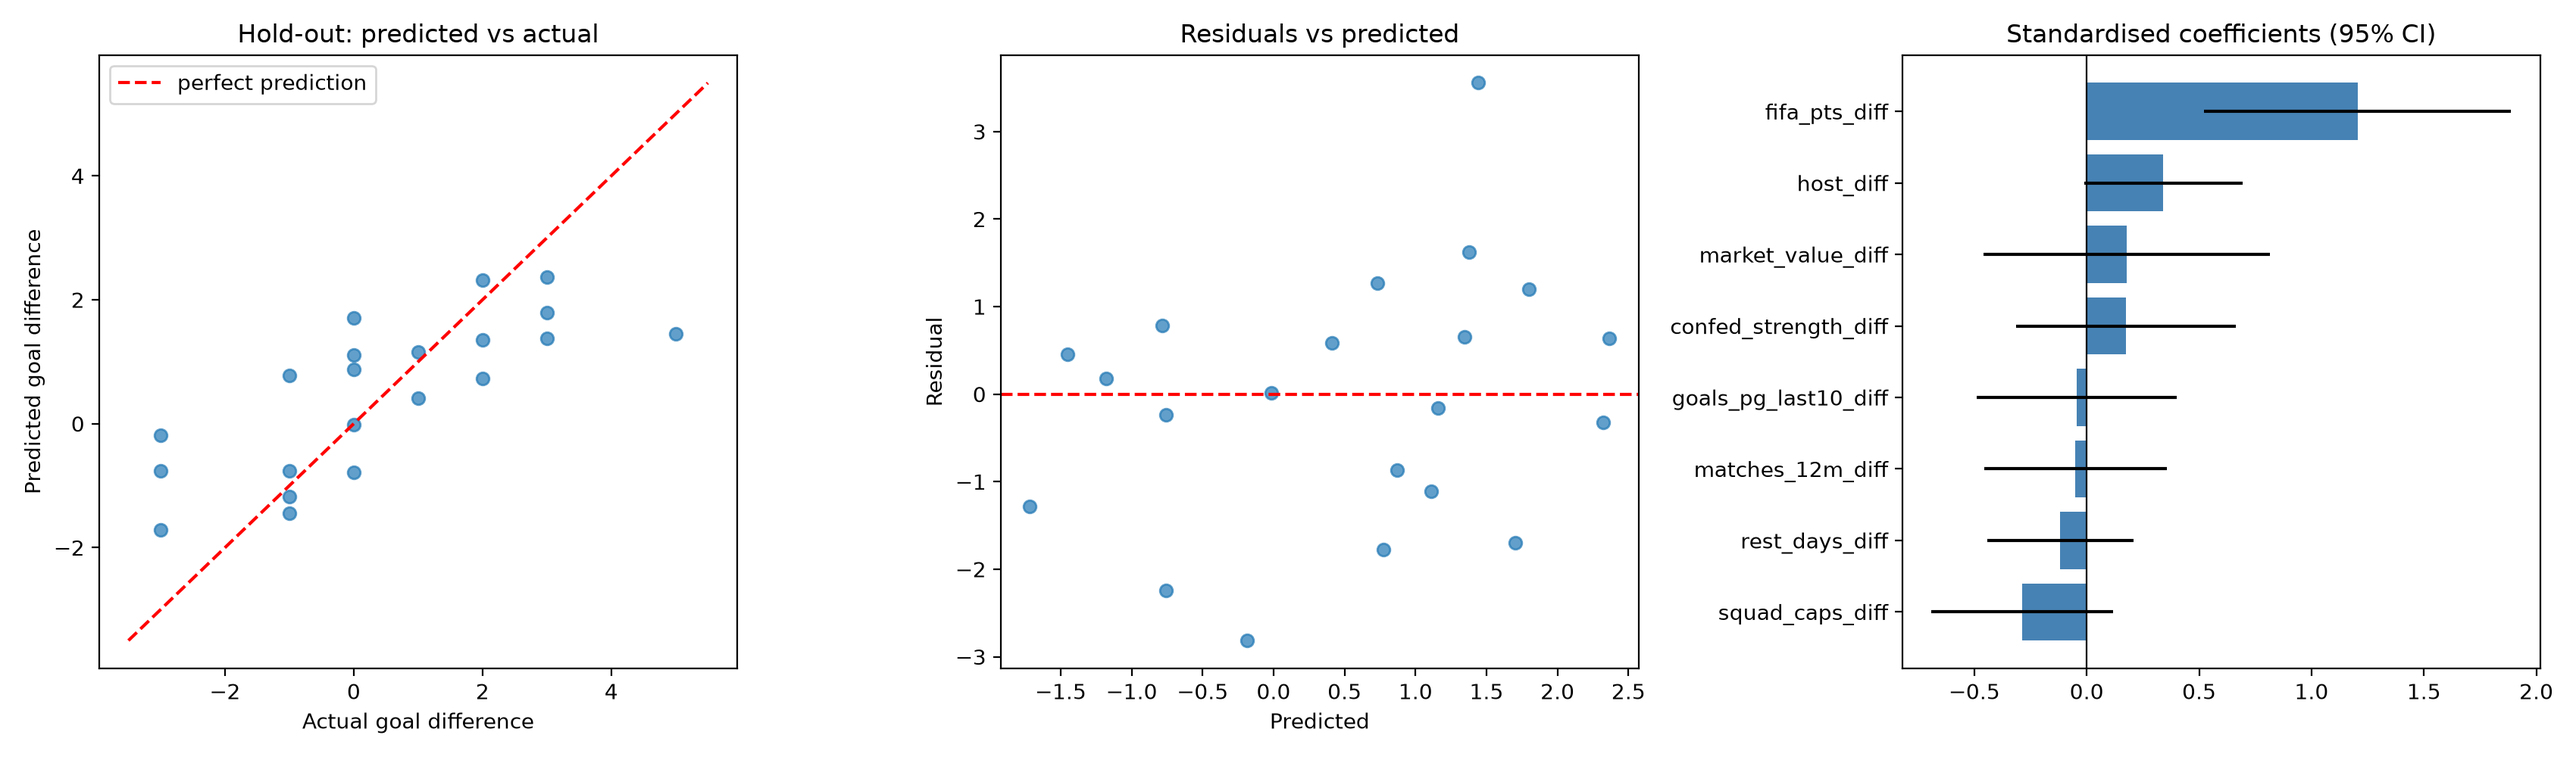
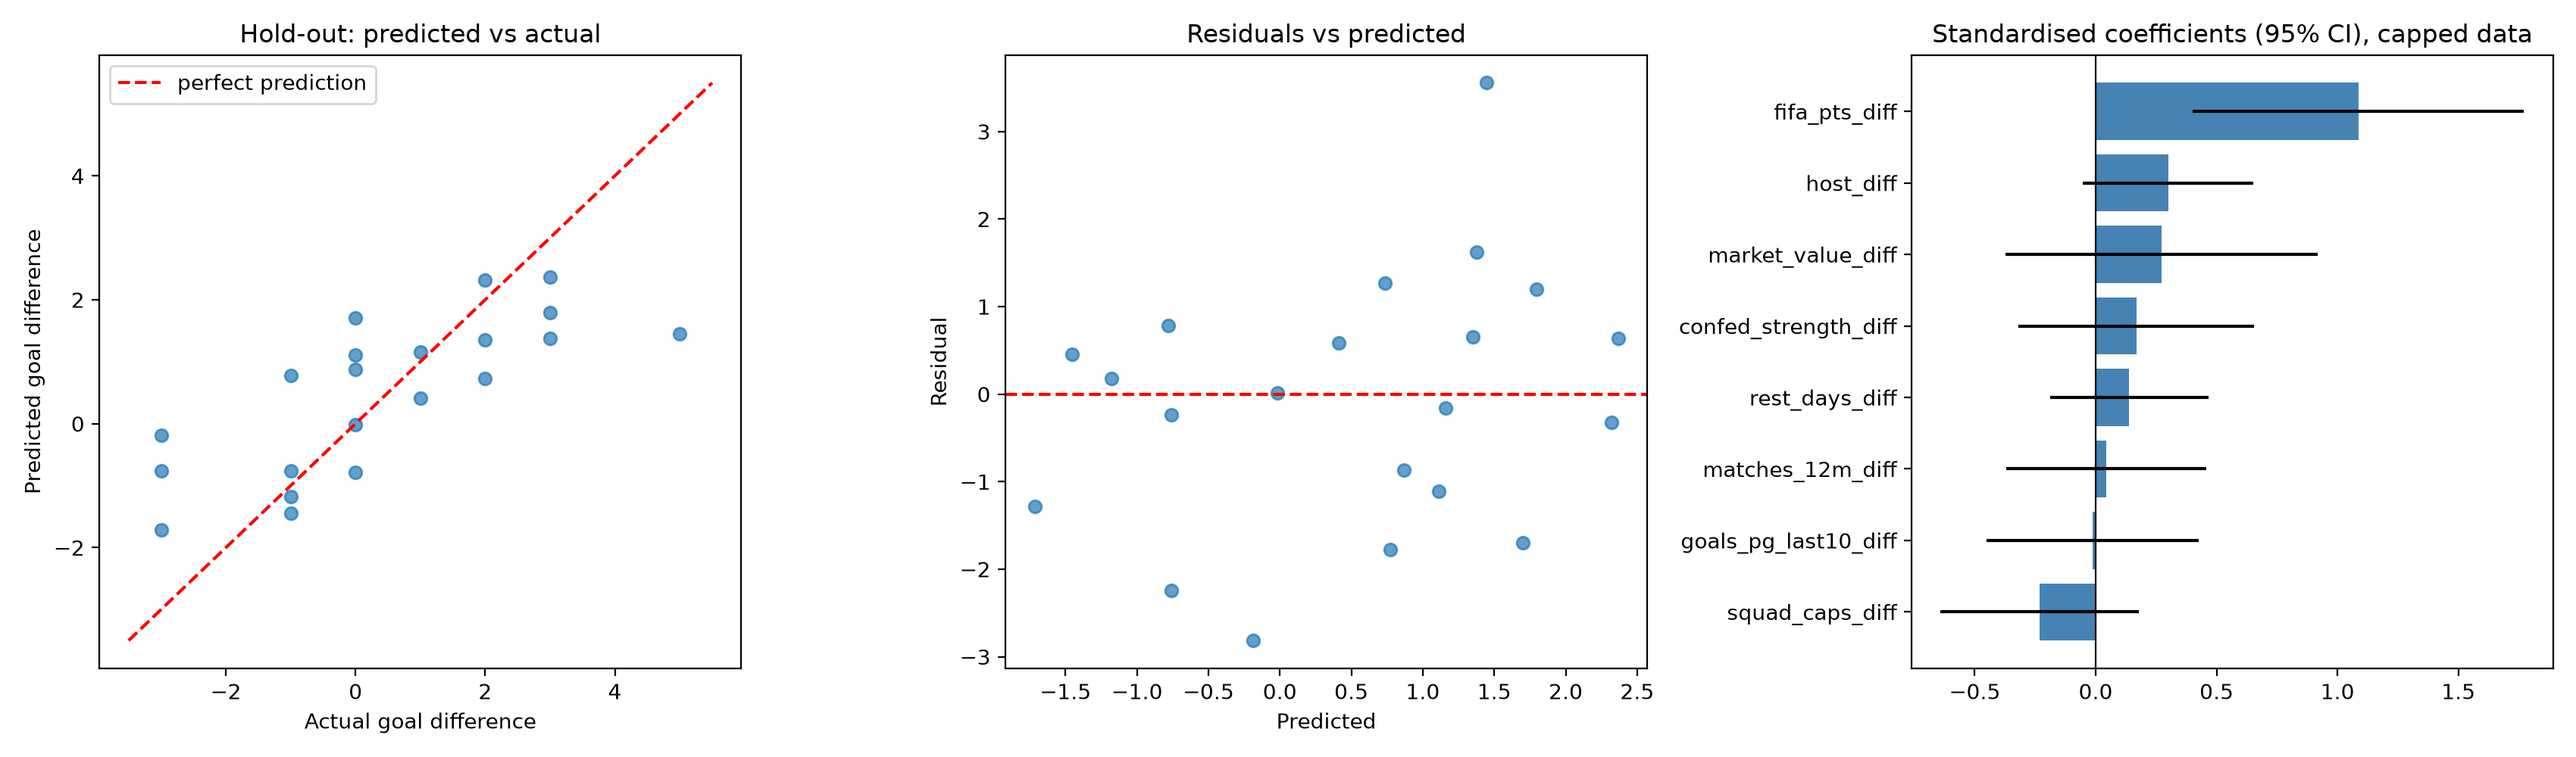
Update model with outlier capping and add report figures

diff --git a/src/07_model.py b/src/07_model.py
@@ -1,6 +1,10 @@
 """Linear Regression 2.1: baseline, optimisation experiments, competing algorithms, final evaluation.
 Run from project root:  python src/07_model.py
-Outputs: reports/model_*.csv, figures/model_*.png
+Outputs: reports/model_*.csv, reports/ols_summary_*.txt, figures/model_*.png
+
+Experiment groups
+  E*  : raw variables
+  C*  : same ideas after capping rest_days_diff at +-10 days (one match has -70, a high-leverage outlier)
 """
 import os, warnings
 import matplotlib
@@ -8,17 +12,16 @@ matplotlib.use("Agg")
 import matplotlib.pyplot as plt
 import numpy as np
 import pandas as pd
-import seaborn as sns
 import statsmodels.api as sm
 from sklearn.compose import ColumnTransformer
 from sklearn.dummy import DummyRegressor
 from sklearn.ensemble import GradientBoostingRegressor, RandomForestRegressor
 from sklearn.feature_selection import SelectKBest, f_regression
-from sklearn.linear_model import ElasticNetCV, LinearRegression, RidgeCV
+from sklearn.linear_model import ElasticNetCV, HuberRegressor, LinearRegression, RidgeCV
 from sklearn.metrics import mean_absolute_error, mean_squared_error, r2_score
 from sklearn.model_selection import RepeatedKFold, cross_validate, train_test_split
 from sklearn.neighbors import KNeighborsRegressor
-from sklearn.pipeline import Pipeline, make_pipeline
+from sklearn.pipeline import make_pipeline
 from sklearn.preprocessing import FunctionTransformer, PowerTransformer, StandardScaler
 from sklearn.svm import SVR
 from statsmodels.stats.outliers_influence import variance_inflation_factor
@@ -26,112 +29,112 @@ from statsmodels.tools import add_constant
 
 warnings.filterwarnings("ignore")
 os.makedirs("figures", exist_ok=True); os.makedirs("reports", exist_ok=True)
-SEED = 42
+SEED, CAP = 42, 10
 df = pd.read_csv("data/processed/model_2_1_dataset.csv")
 X_COLS = ["fifa_pts_diff", "market_value_diff", "goals_pg_last10_diff", "rest_days_diff",
           "confed_strength_diff", "matches_12m_diff", "squad_caps_diff", "host_diff"]
-X, y = df[X_COLS], df["goal_diff"]
-cv = RepeatedKFold(n_splits=5, n_repeats=10, random_state=SEED)   # 50 train/validation splits
+y = df["goal_diff"]
+DATA = {"raw": df[X_COLS].copy(), "cap": df[X_COLS].copy()}
+DATA["cap"]["rest_days_diff"] = DATA["cap"]["rest_days_diff"].clip(-CAP, CAP)   # outlier treatment
+cv = RepeatedKFold(n_splits=5, n_repeats=10, random_state=SEED)                # 50 train/validation splits
 
-def evaluate(name, model, cols=None, group="experiment"):
-    Xs = X if cols is None else X[cols]
-    s = cross_validate(model, Xs, y, cv=cv, n_jobs=-1,
-                       scoring={"rmse": "neg_root_mean_squared_error", "mae": "neg_mean_absolute_error", "r2": "r2"})
-    return {"group": group, "model": name, "CV_RMSE": -s["test_rmse"].mean(), "RMSE_sd": s["test_rmse"].std(),
-            "CV_MAE": -s["test_mae"].mean(), "CV_R2": s["test_r2"].mean()}
-
-# ---------- helper: iterative VIF removal (uses explanatory variables only, no target) ----------
-def vif_reduce(cols, thresh=5.0):
-    cols = list(cols)
+def vif_reduce(X, thresh=5.0):
+    cols = list(X.columns)
     while len(cols) > 2:
-        Xc = add_constant(X[cols]); v = [variance_inflation_factor(Xc.values, i + 1) for i in range(len(cols))]
+        v = [variance_inflation_factor(add_constant(X[cols]).values, i + 1) for i in range(len(cols))]
         if max(v) <= thresh: break
         cols.pop(int(np.argmax(v)))
     return cols
-low_vif_cols = vif_reduce(X_COLS)
-print("Columns kept after VIF filtering (VIF<=5):", low_vif_cols)
+low_vif = {k: vif_reduce(DATA[k]) for k in DATA}
+print("Kept after VIF<=5 filter:", low_vif["raw"])
 
 def signed_log(a): return np.sign(a) * np.log1p(np.abs(a))
-skewed = [c for c in ["market_value_diff", "fifa_pts_diff"] if c in X_COLS]
-slog = ColumnTransformer([("slog", FunctionTransformer(signed_log), skewed)], remainder="passthrough")
+def slog_pipe(): return make_pipeline(ColumnTransformer([("s", FunctionTransformer(signed_log), ["market_value_diff", "fifa_pts_diff"])],
+                                                        remainder="passthrough"), StandardScaler(), LinearRegression())
+def topk(k, reg=None): return make_pipeline(StandardScaler(), SelectKBest(f_regression, k=k), reg or LinearRegression())
+def ridge(): return make_pipeline(StandardScaler(), RidgeCV(alphas=np.logspace(-3, 3, 30)))
+def enet(): return make_pipeline(StandardScaler(), ElasticNetCV(l1_ratio=[.2, .5, .8, 1], cv=5, random_state=SEED))
+def yj(): return make_pipeline(PowerTransformer(), LinearRegression())
 
-# ---------- 1. Baseline + linear regression optimisation experiments ----------
-res = [
-    evaluate("E0 Baseline (predict training mean)", DummyRegressor(strategy="mean")),
-    evaluate("E1 Linear regression, all 8 variables", LinearRegression()),
-    evaluate("E2 + Yeo-Johnson transformation", make_pipeline(PowerTransformer(), LinearRegression())),
-    evaluate("E3 + signed-log of skewed variables, then scaling", make_pipeline(slog, StandardScaler(), LinearRegression())),
-    evaluate("E4 Remove collinear variables (VIF<=5)", LinearRegression(), cols=low_vif_cols),
-    evaluate("E5 VIF filter + Yeo-Johnson", make_pipeline(PowerTransformer(), LinearRegression()), cols=low_vif_cols),
+# (name, model factory, data version, columns or None, group, is_linear)
+EXPS = [
+ ("E0 Baseline (predict training mean)", DummyRegressor, "raw", None, "baseline", False),
+ ("E1 Linear regression, all 8 variables", LinearRegression, "raw", None, "raw", True),
+ ("E2 + Yeo-Johnson transformation", yj, "raw", None, "raw", True),
+ ("E3 + signed-log of skewed variables, scaling", slog_pipe, "raw", None, "raw", True),
+ ("E4 Remove collinear variables (VIF<=5)", LinearRegression, "raw", low_vif["raw"], "raw", True),
+ ("E5 VIF filter + Yeo-Johnson", yj, "raw", low_vif["raw"], "raw", True),
+ ("E6 Top-3 by F-test (inside CV)", lambda: topk(3), "raw", None, "raw", True),
+ ("E6 Top-4 by F-test (inside CV)", lambda: topk(4), "raw", None, "raw", True),
+ ("E6 Top-5 by F-test (inside CV)", lambda: topk(5), "raw", None, "raw", True),
+ ("E6 Top-6 by F-test (inside CV)", lambda: topk(6), "raw", None, "raw", True),
+ ("E7 Ridge (alpha by CV)", ridge, "raw", None, "raw", True),
+ ("E8 Elastic Net (alpha, l1 by CV)", enet, "raw", None, "raw", True),
+ ("C1 All 8, rest days capped at +-10", LinearRegression, "cap", None, "capped", True),
+ ("C2 Capped + Yeo-Johnson", yj, "cap", None, "capped", True),
+ ("C3 Capped + signed-log + scaling", slog_pipe, "cap", None, "capped", True),
+ ("C4 Capped + VIF filter (VIF<=5)", LinearRegression, "cap", low_vif["cap"], "capped", True),
+ ("C5 Capped + Huber robust regression", lambda: make_pipeline(StandardScaler(), HuberRegressor()), "cap", None, "capped", True),
+ ("C6 Capped + Top-3 by F-test", lambda: topk(3), "cap", None, "capped", True),
+ ("C6 Capped + Top-4 by F-test", lambda: topk(4), "cap", None, "capped", True),
+ ("C7 Capped + Ridge", ridge, "cap", None, "capped", True),
+ ("Random Forest (capped data)", lambda: RandomForestRegressor(n_estimators=300, min_samples_leaf=3, random_state=SEED), "cap", None, "competing", False),
+ ("Gradient Boosting (capped data)", lambda: GradientBoostingRegressor(n_estimators=150, max_depth=2, learning_rate=.05, subsample=.8, random_state=SEED), "cap", None, "competing", False),
+ ("SVR, RBF kernel (capped data)", lambda: make_pipeline(StandardScaler(), SVR(C=2.0, epsilon=.3)), "cap", None, "competing", False),
+ ("k-Nearest Neighbours, k=10 (capped data)", lambda: make_pipeline(StandardScaler(), KNeighborsRegressor(10)), "cap", None, "competing", False),
 ]
-for k in (3, 4, 5, 6):
-    res.append(evaluate(f"E6 Top-{k} variables by F-test (inside CV)",
-                        make_pipeline(StandardScaler(), SelectKBest(f_regression, k=k), LinearRegression())))
-res.append(evaluate("E7 Ridge regression (alpha by CV)", make_pipeline(StandardScaler(), RidgeCV(alphas=np.logspace(-3, 3, 30)))))
-res.append(evaluate("E8 Elastic Net (alpha, l1 by CV)", make_pipeline(StandardScaler(), ElasticNetCV(l1_ratio=[.2, .5, .8, 1], cv=5, random_state=SEED))))
-exp = pd.DataFrame(res); print("\nOPTIMISATION EXPERIMENTS (5-fold x10 CV)\n", exp.round(3).to_string(index=False))
 
-# ---------- 2. Competing algorithms (HD criterion) ----------
-comp = [
-    evaluate("Linear regression (baseline linear model)", LinearRegression(), group="competing"),
-    evaluate("Random Forest", RandomForestRegressor(n_estimators=300, min_samples_leaf=3, random_state=SEED), group="competing"),
-    evaluate("Gradient Boosting", GradientBoostingRegressor(n_estimators=150, max_depth=2, learning_rate=.05, subsample=.8, random_state=SEED), group="competing"),
-    evaluate("SVR (RBF kernel)", make_pipeline(StandardScaler(), SVR(C=2.0, epsilon=.3)), group="competing"),
-    evaluate("k-Nearest Neighbours (k=10)", make_pipeline(StandardScaler(), KNeighborsRegressor(10)), group="competing"),
-]
-compdf = pd.DataFrame(comp); print("\nCOMPETING ALGORITHMS\n", compdf.round(3).to_string(index=False))
-pd.concat([exp, compdf]).round(4).to_csv("reports/model_cv_results.csv", index=False)
+def get_X(ver, cols): return DATA[ver] if cols is None else DATA[ver][cols]
+rows = []
+for name, mk, ver, cols, grp, lin in EXPS:
+    s = cross_validate(mk(), get_X(ver, cols), y, cv=cv, n_jobs=-1,
+                       scoring={"rmse": "neg_root_mean_squared_error", "mae": "neg_mean_absolute_error", "r2": "r2"})
+    rows.append({"group": grp, "model": name, "CV_RMSE": -s["test_rmse"].mean(), "RMSE_sd": s["test_rmse"].std(),
+                 "CV_MAE": -s["test_mae"].mean(), "CV_R2": s["test_r2"].mean()})
+res = pd.DataFrame(rows); res.round(4).to_csv("reports/model_cv_results.csv", index=False)
+base = res.loc[0, "CV_RMSE"]; full = res.loc[1, "CV_RMSE"]
+res["vs_baseline_%"] = (1 - res.CV_RMSE / base) * 100
+print("\nALL EXPERIMENTS (5-fold x 10 CV)\n", res.round(3).to_string(index=False))
 
-# ---------- 3. Pick best linear model and evaluate on an 80/20 hold-out vs actual results ----------
-lin = exp[exp.model.str.startswith(("E1", "E2", "E3", "E4", "E5", "E6", "E7", "E8"))].sort_values("CV_RMSE")
-best_name = lin.iloc[0].model; print("\nBest linear experiment:", best_name)
-best_models = {
-    "E1": (LinearRegression(), None), "E2": (make_pipeline(PowerTransformer(), LinearRegression()), None),
-    "E3": (make_pipeline(slog, StandardScaler(), LinearRegression()), None),
-    "E4": (LinearRegression(), low_vif_cols), "E5": (make_pipeline(PowerTransformer(), LinearRegression()), low_vif_cols),
-    "E7": (make_pipeline(StandardScaler(), RidgeCV(alphas=np.logspace(-3, 3, 30))), None),
-    "E8": (make_pipeline(StandardScaler(), ElasticNetCV(l1_ratio=[.2, .5, .8, 1], cv=5, random_state=SEED)), None),
-}
-key = best_name.split()[0]
-if key == "E6":
-    k = int(best_name.split("Top-")[1].split()[0])
-    mdl, cols = make_pipeline(StandardScaler(), SelectKBest(f_regression, k=k), LinearRegression()), None
-else:
-    mdl, cols = best_models[key]
-Xs = X if cols is None else X[cols]
+# ---------- best linear model -> 80/20 hold-out vs actual WC 2026 results ----------
+lin_names = [e[0] for e in EXPS if e[5]]
+best = res[res.model.isin(lin_names)].sort_values("CV_RMSE").iloc[0].model
+name, mk, ver, cols, grp, lin = [e for e in EXPS if e[0] == best][0]
+Xs = get_X(ver, cols)
 Xtr, Xte, ytr, yte = train_test_split(Xs, y, test_size=0.2, random_state=SEED)
-mdl.fit(Xtr, ytr); pred = mdl.predict(Xte)
-base = DummyRegressor().fit(Xtr, ytr).predict(Xte)
-hold = pd.DataFrame({"model": [best_name, "Baseline (mean)"],
-    "test_RMSE": [mean_squared_error(yte, pred) ** .5, mean_squared_error(yte, base) ** .5],
-    "test_MAE": [mean_absolute_error(yte, pred), mean_absolute_error(yte, base)],
-    "test_R2": [r2_score(yte, pred), r2_score(yte, base)]})
-print("\nHOLD-OUT (20% of matches, compared with actual WC 2026 results)\n", hold.round(3).to_string(index=False))
+mdl = mk().fit(Xtr, ytr); pred = mdl.predict(Xte); bpred = DummyRegressor().fit(Xtr, ytr).predict(Xte)
+hold = pd.DataFrame({"model": [best, "Baseline (mean)"],
+  "test_RMSE": [mean_squared_error(yte, pred) ** .5, mean_squared_error(yte, bpred) ** .5],
+  "test_MAE": [mean_absolute_error(yte, pred), mean_absolute_error(yte, bpred)],
+  "test_R2": [r2_score(yte, pred), r2_score(yte, bpred)], "n_test_matches": len(yte)})
+print("\nBest linear model:", best); print(hold.round(3).to_string(index=False))
 hold.round(4).to_csv("reports/model_holdout.csv", index=False)
+pd.DataFrame({"actual": yte.values, "predicted": pred}).to_csv("reports/model_holdout_predictions.csv", index=False)
 
-# ---------- 4. statsmodels summary of the full linear model (coefficients, p-values, diagnostics) ----------
-Xz = (X - X.mean()) / X.std()
-ols = sm.OLS(y, sm.add_constant(Xz)).fit()
-print("\nOLS SUMMARY (standardised explanatory variables)\n", ols.summary())
-open("reports/ols_summary.txt", "w").write(str(ols.summary()))
+# ---------- statsmodels summaries (standardised variables): raw and capped ----------
+for key in ("raw", "cap"):
+    Xz = (DATA[key] - DATA[key].mean()) / DATA[key].std()
+    ols = sm.OLS(y, sm.add_constant(Xz)).fit()
+    open(f"reports/ols_summary_{key}.txt", "w").write(str(ols.summary()))
+    if key == "cap": print("\nOLS (capped, standardised)\n", ols.summary())
+    if key == "cap": OLS_CAP = ols
 
-# ---------- 5. Figures ----------
+# ---------- diagnostic figure ----------
 fig, axes = plt.subplots(1, 3, figsize=(17, 5))
 axes[0].scatter(yte, pred, alpha=.7); lim = [min(yte.min(), pred.min()) - .5, max(yte.max(), pred.max()) + .5]
 axes[0].plot(lim, lim, "r--", label="perfect prediction"); axes[0].set_xlabel("Actual goal difference"); axes[0].set_ylabel("Predicted goal difference")
 axes[0].set_title("Hold-out: predicted vs actual"); axes[0].legend()
-res_ = yte - pred; axes[1].scatter(pred, res_, alpha=.7); axes[1].axhline(0, color="r", ls="--")
+axes[1].scatter(pred, yte - pred, alpha=.7); axes[1].axhline(0, color="r", ls="--")
 axes[1].set_xlabel("Predicted"); axes[1].set_ylabel("Residual"); axes[1].set_title("Residuals vs predicted")
-coef = ols.params.drop("const").sort_values(); ci = ols.conf_int().drop("const").loc[coef.index]
+coef = OLS_CAP.params.drop("const").sort_values(); ci = OLS_CAP.conf_int().drop("const").loc[coef.index]
 axes[2].barh(coef.index, coef.values, xerr=[coef.values - ci[0].values, ci[1].values - coef.values], color="steelblue")
-axes[2].axvline(0, color="k", lw=.8); axes[2].set_title("Standardised coefficients (95% CI)")
+axes[2].axvline(0, color="k", lw=.8); axes[2].set_title("Standardised coefficients (95% CI), capped data")
 plt.tight_layout(); plt.savefig("figures/model_diagnostics.png", dpi=200); plt.close()
 
-allres = pd.concat([exp, compdf]).sort_values("CV_RMSE")
-fig, ax = plt.subplots(figsize=(10, 7))
-colors = ["#c0392b" if g == "competing" else "#2980b9" for g in allres.group]
-ax.barh(allres.model, allres.CV_RMSE, xerr=allres.RMSE_sd, color=colors)
+allres = res.sort_values("CV_RMSE"); colmap = {"baseline": "#7f8c8d", "raw": "#2980b9", "capped": "#27ae60", "competing": "#c0392b"}
+fig, ax = plt.subplots(figsize=(10, 9))
+ax.barh(allres.model, allres.CV_RMSE, xerr=allres.RMSE_sd, color=[colmap[g] for g in allres.group])
 ax.set_xlabel("Cross-validated RMSE (lower is better)"); ax.invert_yaxis()
-ax.set_title("Model comparison (blue = linear experiments, red = competing algorithms)")
+ax.set_title("Model comparison (grey baseline, blue raw, green capped, red competing algorithms)")
 plt.tight_layout(); plt.savefig("figures/model_comparison.png", dpi=200); plt.close()
-print("\nModelling finished. See reports/ and figures/")
+print("\nModelling finished.")

diff --git a/src/08_report_figures.py b/src/08_report_figures.py
@@ -1,0 +1,51 @@
+"""Compact figures for the 4-page report. Run after 06_eda.py and 07_model.py:  python src/08_report_figures.py"""
+import matplotlib
+matplotlib.use("Agg")
+import matplotlib.pyplot as plt
+import numpy as np
+import pandas as pd
+import seaborn as sns
+
+plt.rcParams.update({"font.size": 7, "axes.titlesize": 7.5, "axes.labelsize": 7, "xtick.labelsize": 6.5, "ytick.labelsize": 6.5})
+df = pd.read_csv("data/processed/model_2_1_dataset.csv")
+X = ["fifa_pts_diff", "market_value_diff", "goals_pg_last10_diff", "rest_days_diff",
+     "confed_strength_diff", "matches_12m_diff", "squad_caps_diff", "host_diff"]
+
+# ---- Figure 1: correlation matrix + four scatterplots (the last shows the rest-days outlier) ----
+fig = plt.figure(figsize=(7.2, 3.0))
+gs = fig.add_gridspec(2, 3, width_ratios=[1.35, 1, 1], wspace=0.42, hspace=0.62)
+ax = fig.add_subplot(gs[:, 0])
+sns.heatmap(df[X + ["goal_diff"]].corr(), annot=True, fmt=".2f", annot_kws={"size": 5.2}, cmap="vlag", center=0, vmin=-1, vmax=1,
+            cbar=False, ax=ax, linewidths=.3)
+ax.set_title("(a) Correlation matrix"); ax.tick_params(axis="x", rotation=60); plt.setp(ax.get_xticklabels(), ha="right")
+for a, c, lab in zip([fig.add_subplot(gs[0, 1]), fig.add_subplot(gs[0, 2]), fig.add_subplot(gs[1, 1]), fig.add_subplot(gs[1, 2])],
+                     ["fifa_pts_diff", "market_value_diff", "goals_pg_last10_diff", "rest_days_diff"], "bcde"):
+    sns.regplot(x=df[c], y=df["goal_diff"], ax=a, scatter_kws={"alpha": .55, "s": 8}, line_kws={"color": "crimson", "lw": 1})
+    a.set_title(f"({lab}) {c}, r = {df[c].corr(df['goal_diff']):.2f}"); a.set_ylabel("goal_diff"); a.set_xlabel("")
+out = df.loc[df.rest_days_diff.abs() > 10]
+a.scatter(out.rest_days_diff, out.goal_diff, s=22, facecolors="none", edgecolors="black", lw=.8)
+a.annotate("1 match: -70 days", (out.rest_days_diff.iloc[0], out.goal_diff.iloc[0]), xytext=(-58, -12), textcoords="data", fontsize=6, arrowprops=dict(arrowstyle="->", lw=.6))
+plt.savefig("figures/report_fig1.png", dpi=300, bbox_inches="tight"); plt.close()
+
+# ---- Figure 2: model comparison (CV RMSE) + hold-out predicted vs actual ----
+r = pd.read_csv("reports/model_cv_results.csv").set_index("model")
+pick = {"Baseline: predict the mean": "E0 Baseline (predict training mean)",
+        "Linear, all 8 variables": "E1 Linear regression, all 8 variables",
+        "Linear, all 8, rest days capped": "C1 All 8, rest days capped at +-10",
+        "Capped + signed-log + scaling": "C3 Capped + signed-log + scaling",
+        "Linear, top 3 by F-test": "E6 Top-3 by F-test (inside CV)",
+        "SVR (RBF)": "SVR, RBF kernel (capped data)",
+        "Random Forest": "Random Forest (capped data)",
+        "Gradient Boosting": "Gradient Boosting (capped data)",
+        "k-Nearest Neighbours": "k-Nearest Neighbours, k=10 (capped data)"}
+sel = pd.DataFrame({"label": list(pick), "rmse": [r.loc[v, "CV_RMSE"] for v in pick.values()], "sd": [r.loc[v, "RMSE_sd"] for v in pick.values()]})
+cols = ["#7f8c8d", "#2980b9", "#27ae60", "#27ae60", "#27ae60", "#c0392b", "#c0392b", "#c0392b", "#c0392b"]
+fig, axes = plt.subplots(1, 2, figsize=(7.2, 2.5), gridspec_kw={"width_ratios": [1.35, 1], "wspace": 0.55})
+ax = axes[0]; ax.barh(sel.label, sel.rmse, xerr=sel.sd, color=cols, error_kw={"lw": .7}); ax.invert_yaxis()
+for i, v in enumerate(sel.rmse): ax.text(0.04, i, f"{v:.2f}", va="center", color="white", fontsize=6.5, fontweight="bold")
+ax.set_xlim(0, 3.1); ax.set_xlabel("Cross-validated RMSE in goals (lower is better; bars = sd across folds)"); ax.set_title("(a) Model comparison, 5-fold x 10 CV")
+h = pd.read_csv("reports/model_holdout_predictions.csv"); a = axes[1]
+a.scatter(h.actual, h.predicted, s=14, alpha=.75); lim = [-4.2, 5.5]; a.plot(lim, lim, "r--", lw=.8)
+a.set_xlabel("Actual goal difference"); a.set_ylabel("Predicted goal difference"); a.set_title("(b) Hold-out: 21 matches, top-3 linear model")
+plt.savefig("figures/report_fig2.png", dpi=300, bbox_inches="tight"); plt.close()
+print("saved figures/report_fig1.png and figures/report_fig2.png")
